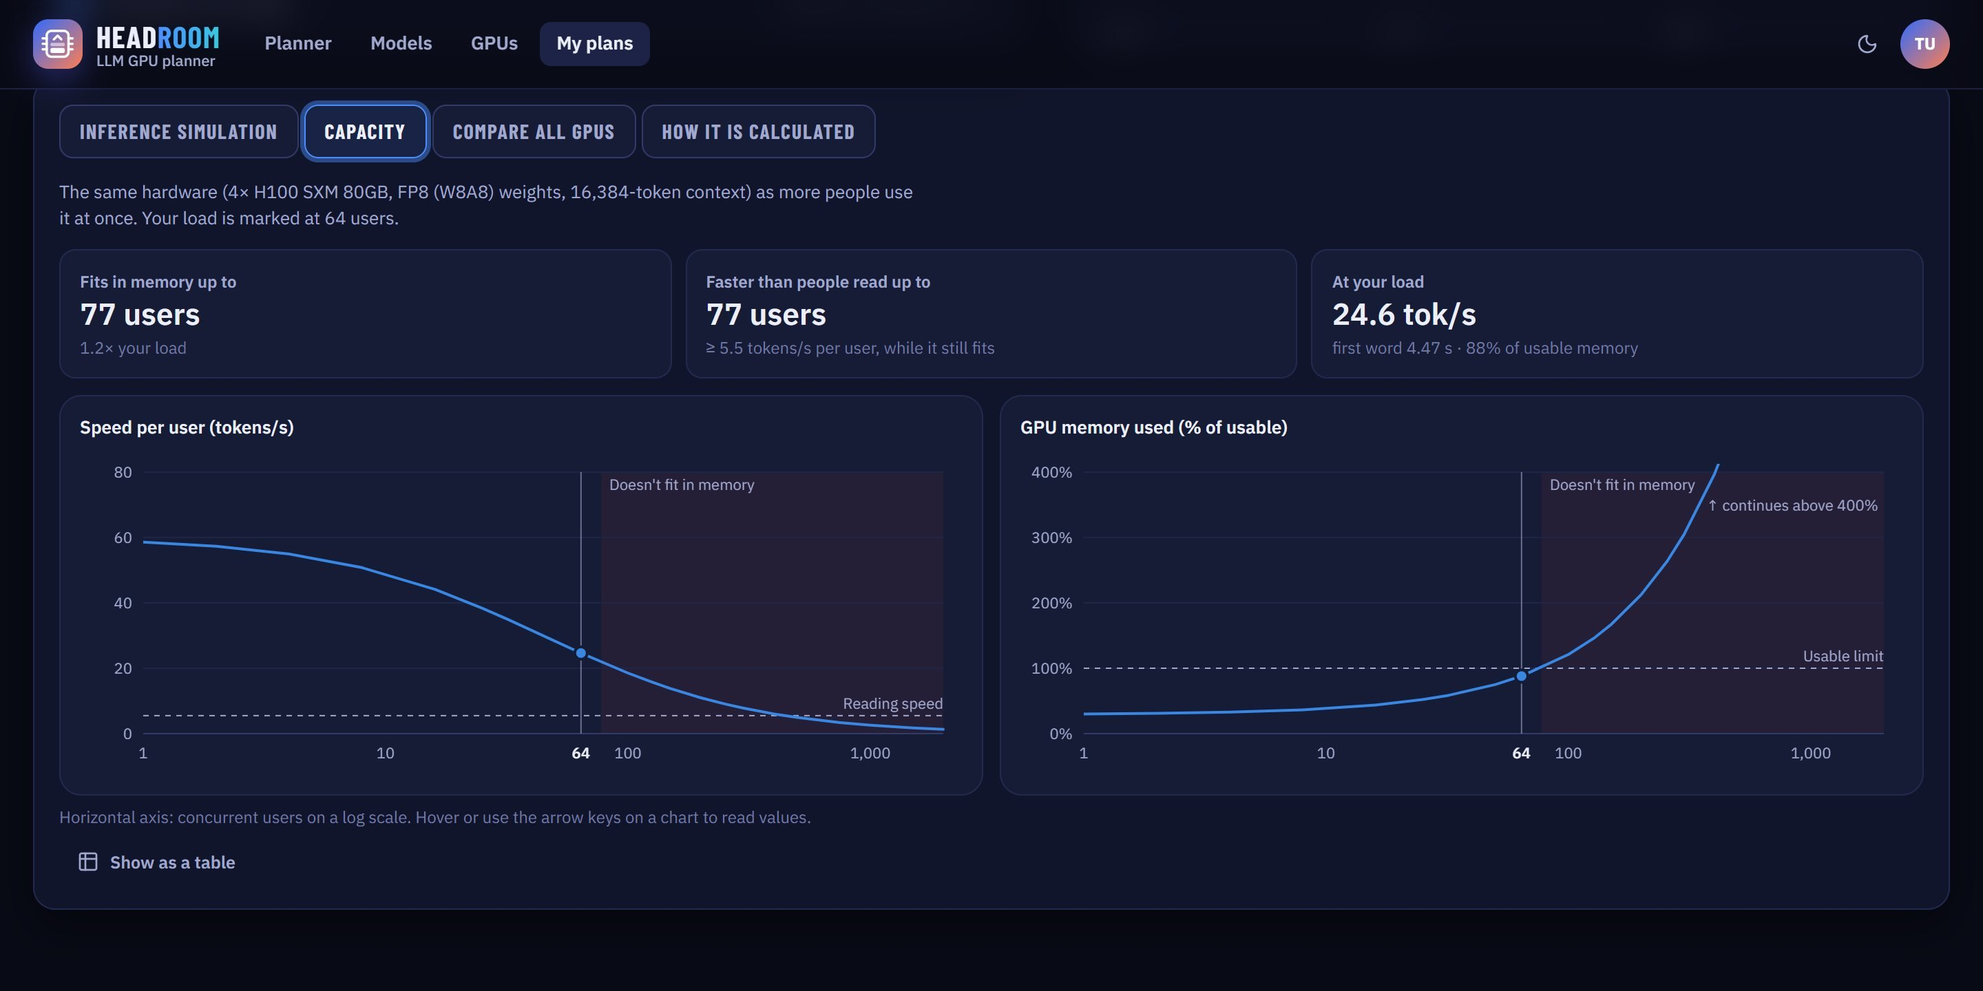
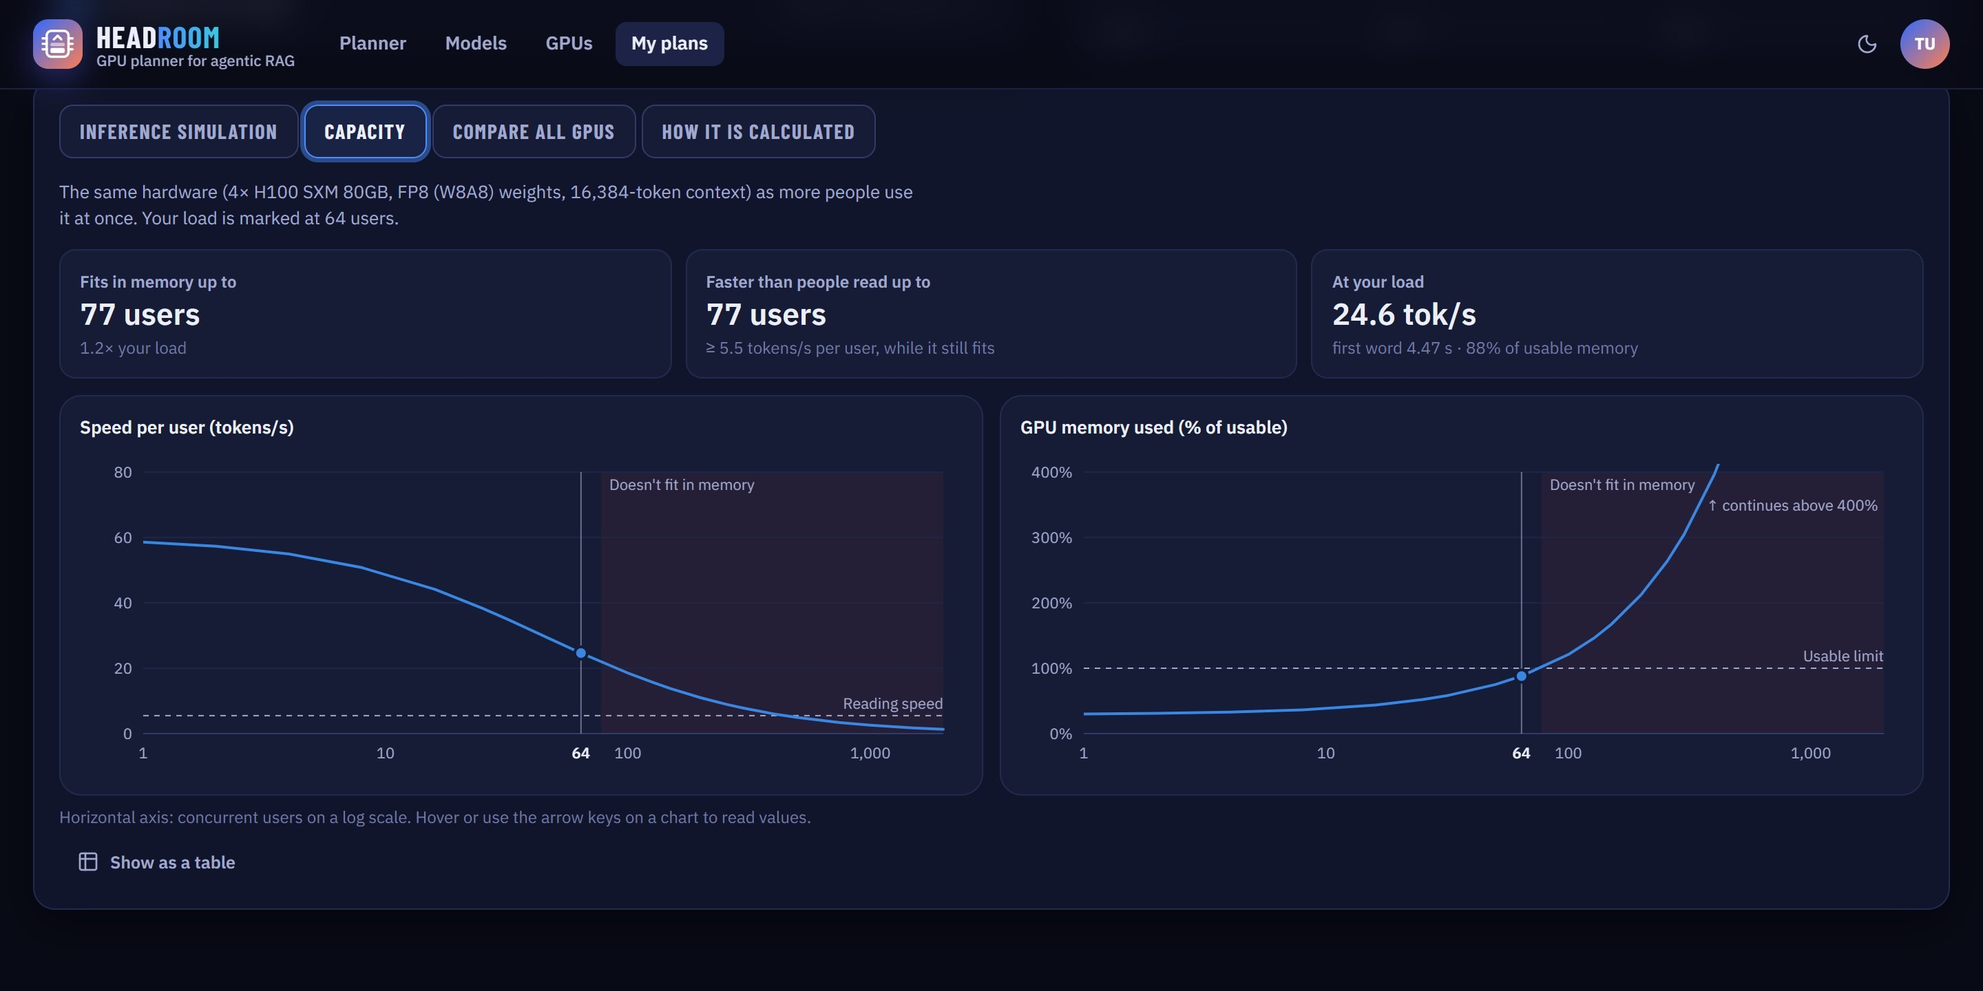
App: pitch Headroom as a GPU planner for agentic RAG
- Tagline "GPU planner for agentic RAG" and a site description that
  names the whole stack (embedders, rerankers, parsers, speech,
  guardrails) next to the LLM
- Landing: new hero copy, a "One GPU budget for every model" section
  computed from the Voice agent template, the hero card lists the RAG
  models and shows question -> first word, stack-first features,
  how-it-works steps and a new FAQ answer
- Sign-in panel, planner, share, GPU catalog and share image copy
- Refreshed README screenshots and demo GIF with the new tagline

Changed region(s): [[0.125, 0.0, 0.375, 0.0938], [0.0625, 0.0312, 0.0938, 0.0938]]

diff --git a/src/app/(marketing)/page.tsx b/src/app/(marketing)/page.tsx
@@ -17,19 +17,21 @@ import {
 import { buttonVariants } from "@/components/ui/button";
 import { HeroPreview } from "@/components/marketing/hero-preview";
 import { TemplateGallery } from "@/components/dashboard/template-gallery";
+import { StatusPill } from "@/components/ui/status";
 import { CATALOG_STATS, GPU_INDEX } from "@/lib/catalog";
-import { ENGINES, WQ } from "@/lib/engine";
+import { ENGINES, TASKS, WQ } from "@/lib/engine";
 import { runInference } from "@/lib/planner/compute";
 import { defaultState } from "@/lib/planner/defaults";
-import { gpuLabel, money, spd, tm } from "@/lib/planner/format";
+import { gb, gpuLabel, money, ms, nf, pc, spd, tm } from "@/lib/planner/format";
+import { templateState } from "@/lib/planner/templates";
 import { siteConfig } from "@/lib/site";
 
 const FEATURES = [
-  { icon: Layers, title: "Memory, line by line", text: "Weights, KV cache per user, runtime, CUDA graphs, activations and companion models, against what each GPU can really hold." },
-  { icon: Gauge, title: "Speed and first word", text: "Tokens per second per user from memory bandwidth, compute and GPU-to-GPU traffic, and time to first token under a burst of prompts." },
+  { icon: Boxes, title: "The whole RAG & agent stack", text: `The LLM plus ${CATALOG_STATS.companions} embedding, reranking, OCR, speech-to-text, text-to-speech and guardrail models, on the same GPUs, on the CPU or as an API.` },
+  { icon: Layers, title: "Memory, line by line", text: "Weights, KV cache per user, runtime, CUDA graphs, activations and every model in the stack, against what each GPU can really hold." },
+  { icon: Gauge, title: "Speed and first word", text: "Tokens per second per user, and the time from question to first word: embedding, vector search, reranking, guardrails and the LLM's first token, under a burst." },
   { icon: Server, title: "How many GPUs", text: "The smallest server that fits, or a cluster with tensor and pipeline parallelism over NVLink, InfiniBand or Ethernet." },
   { icon: ChartColumn, title: "Every GPU, side by side", text: `The same workload on all ${CATALOG_STATS.gpus} GPUs: count needed, speed, first word, cost per hour and per million tokens.` },
-  { icon: Boxes, title: "RAG and agent stacks", text: `${CATALOG_STATS.companions} embedding, reranking, OCR, speech and guardrail models sharing the GPUs, with retrieval latency per question.` },
   { icon: FlaskConical, title: "Fine-tuning", text: "Full, LoRA and QLoRA with optimizer states, ZeRO / FSDP sharding, checkpointing, training time and cost." },
   { icon: HardDrive, title: "Offloading", text: "Move layers or the KV cache to RAM or NVMe, run them on the CPU or stream over PCIe, and see what it costs in speed." },
   { icon: Coins, title: "Cost and energy", text: "Cloud price or your own, electricity, power draw, cost per million tokens, and the CPU and RAM the server needs." },
@@ -47,6 +49,10 @@ const FAQ = [
   {
     q: "Does it handle MoE, MLA, sliding windows and hybrid models?",
     a: "Yes. Mixture-of-experts counts the experts each step actually touches, MLA models store their latent KV, sliding-window layers keep only their window, linear-attention and Mamba layers keep a fixed state, and quantized KV caches are supported per runtime.",
+  },
+  {
+    q: "Which models besides the LLM can it size?",
+    a: `${CATALOG_STATS.companions} RAG and agent models in 9 types: embedders, rerankers, document parsers and OCR, speech-to-text, text-to-speech, guardrails, vision, PII detection and routers. Each one gets its memory and its speed (query time, pages per hour, × real time for live audio), on the GPU next to the LLM, on the CPU, or as a hosted API with its price.`,
   },
   {
     q: "Do I need an account?",
@@ -71,6 +77,85 @@ function seventyB() {
     });
 }
 
+/** The "Voice agent" template, computed by the same engine as the planner. */
+function voiceAgent() {
+  const s = templateState("voice-agent");
+  return s ? runInference(s) : null;
+}
+
+const PIPELINE = ["Speech-to-text", "Guardrail", "Embedder", "Vector search", "Reranker", "LLM", "Text-to-speech"];
+
+function StackSection() {
+  const r = voiceAgent();
+  if (!r) return null;
+  const st = r.st;
+  const parts: string[] = [];
+  if (st.emb) parts.push(`embed ${ms(st.emb)}`);
+  if (st.search) parts.push(`search ${ms(st.search)}`);
+  if (st.rr) parts.push(`rerank ${ms(st.rr)}`);
+  if (st.guard) parts.push(`guard ${ms(st.guard)}`);
+  return (
+    <section className="mx-auto max-w-[1240px] px-4 pb-20 sm:px-6">
+      <div className="grid gap-10 lg:grid-cols-[minmax(0,0.9fr)_minmax(0,1.1fr)] lg:items-center">
+        <div>
+          <p className="font-display text-sm font-bold tracking-[0.16em] text-orange uppercase">The whole stack</p>
+          <h2 className="mt-2 font-display text-[36px] leading-none font-bold uppercase sm:text-[44px]">One GPU budget for every model</h2>
+          <p className="mt-4 max-w-[52ch] text-[15px] leading-relaxed text-muted">
+            An assistant is never just an LLM. It transcribes, checks, embeds, searches, reranks, answers and speaks, and every one of those models takes memory and
+            compute from the same GPUs. Headroom sizes them together.
+          </p>
+          <ol className="mt-6 flex flex-wrap items-center gap-1.5 text-[12.5px] font-semibold">
+            {PIPELINE.map((step, i) => (
+              <li key={step} className="flex items-center gap-1.5">
+                <span className={i === 5 ? "primary-gradient rounded-full px-3 py-1 text-white" : "rounded-full border border-line-2 bg-panel px-3 py-1"}>{step}</span>
+                {i < PIPELINE.length - 1 ? <ArrowRight className="size-3.5 text-faint" aria-hidden /> : null}
+              </li>
+            ))}
+          </ol>
+          <p className="mt-3 text-[13px] text-faint">Behind it: document parsing, OCR and indexing for your knowledge base.</p>
+        </div>
+        <div className="rounded-2xl border border-line bg-panel p-5 shadow-card">
+          <div className="flex items-start justify-between gap-3">
+            <div className="min-w-0">
+              <h3 className="text-[15px] font-semibold">Example: a voice agent for {nf(r.users, 0)} users</h3>
+              <p className="mt-0.5 text-[13px] text-muted">
+                {r.model.name} with {st.rows.map((x) => x.c.name).join(", ")} on {r.T.G}× {gpuLabel(r.gpu)}
+              </p>
+            </div>
+            <StatusPill ratio={r.ratio} size="sm" />
+          </div>
+          <p className="mt-3 text-[13px] text-muted">
+            <b className="text-[22px] font-semibold text-fg">{nf(r.ratio * 100, 0)}%</b> of usable VRAM: {nf(r.used, 1)} of {nf(r.usableRep, 1)} GB, of which{" "}
+            <b className="text-fg">{gb(st.gpuMem)}</b> for the RAG and voice models
+          </p>
+          <ul className="mt-4 grid gap-2">
+            {st.rows.map((x) => (
+              <li key={x.c.id} className="rounded-xl border border-line bg-panel-2 px-3.5 py-2.5">
+                <div className="flex items-center gap-2 text-[13px]">
+                  <span className="rounded-full bg-blue/14 px-2 py-0.5 text-[10px] font-bold tracking-[0.06em] whitespace-nowrap text-blue uppercase">
+                    {(TASKS[x.c.task] || { l: x.c.task }).l}
+                  </span>
+                  <b className="min-w-0 flex-1 truncate">{x.c.name}</b>
+                  <span className="font-mono tabular-nums">{gb(x.gpuMem)}</span>
+                </div>
+                <p className="mt-1 text-xs text-muted">{x.metrics.join(" · ")}</p>
+              </li>
+            ))}
+          </ul>
+          <p className="mt-3 font-mono text-xs leading-relaxed text-muted">
+            Question → first word: {[...parts, `LLM ${tm(r.ttft1)}`].join(" + ")} = <b className="text-fg">{tm(r.ttft1 + st.retrieval)}</b>
+            <br />
+            {spd(r.speed)} tok/s per user · {money(r.perMTok)} per 1M tokens · the stack uses {pc(st.load, st.load < 0.1 ? 1 : 0)} of the GPUs&apos; compute
+          </p>
+          <Link href="/planner?template=voice-agent" className="mt-4 inline-flex items-center gap-1 text-[13px] font-semibold text-blue">
+            Open this in the planner <ArrowRight className="size-4" />
+          </Link>
+        </div>
+      </div>
+    </section>
+  );
+}
+
 export default function LandingPage() {
   const rows = seventyB();
   return (
@@ -81,14 +166,14 @@ export default function LandingPage() {
         <div className="relative mx-auto grid max-w-[1240px] items-center gap-12 px-4 pt-14 pb-16 sm:px-6 lg:grid-cols-[minmax(0,1.05fr)_minmax(0,1fr)] lg:pt-20 lg:pb-24">
           <div>
             <p className="inline-flex items-center gap-2 rounded-full border border-line-2 bg-panel/70 px-3 py-1 text-xs font-semibold text-muted">
-              <span className="size-1.5 rounded-full bg-orange" /> For ML platform and infrastructure teams
+              <span className="size-1.5 rounded-full bg-orange" /> For teams shipping RAG, voice and agent apps
             </p>
             <h1 className="mt-5 font-display text-[44px] leading-[0.95] font-bold tracking-[0.005em] uppercase sm:text-[60px] lg:text-[68px]">
               Know your GPU <span className="text-gradient">headroom</span> before you buy.
             </h1>
             <p className="mt-5 max-w-[56ch] text-[16px] leading-relaxed text-muted">
-              GPU memory, tokens per second, time to first token, how many GPUs and the cost per million tokens, for inference and fine-tuning. {CATALOG_STATS.models} open
-              models, {CATALOG_STATS.gpus} GPUs, real architecture math.
+              Size the GPUs for your whole agentic RAG stack, not just the LLM: embedders, rerankers, document parsers, speech-to-text, text-to-speech and guardrails
+              share the same cards. Memory, tokens per second, question-to-first-word time, GPU count and cost per million tokens, from real architecture math.
             </p>
             <div className="mt-8 flex flex-wrap gap-3">
               <Link href="/planner" className={buttonVariants({ variant: "primary", size: "lg" })}>
@@ -108,9 +193,9 @@ export default function LandingPage() {
       <section className="border-y border-line bg-panel/60">
         <dl className="mx-auto grid max-w-[1240px] grid-cols-2 gap-y-6 px-4 py-8 sm:grid-cols-5 sm:px-6">
           {[
-            [CATALOG_STATS.models, "open models"],
-            [CATALOG_STATS.gpus, "GPUs & accelerators"],
+            [CATALOG_STATS.models, "LLMs"],
             [CATALOG_STATS.companions, "RAG & agent models"],
+            [CATALOG_STATS.gpus, "GPUs & accelerators"],
             [Object.keys(WQ).length, "weight formats"],
             [Object.keys(ENGINES).length, "inference runtimes"],
           ].map(([n, label]) => (
@@ -139,6 +224,8 @@ export default function LandingPage() {
         </div>
       </section>
 
+      <StackSection />
+
       {/* how it works + example */}
       <section className="border-y border-line bg-panel/50">
         <div className="mx-auto grid max-w-[1240px] gap-12 px-4 py-20 sm:px-6 lg:grid-cols-[minmax(0,0.9fr)_minmax(0,1.1fr)]">
@@ -147,9 +234,9 @@ export default function LandingPage() {
             <h2 className="mt-2 font-display text-[36px] leading-none font-bold uppercase sm:text-[44px]">Three choices, one answer</h2>
             <ol className="mt-8 grid gap-6">
               {[
-                ["Pick the model", "Any of the catalog's models, or your own architecture: layers, heads, experts, sliding windows."],
-                ["Pick the hardware", "A GPU, a server or a cluster. Auto mode finds the smallest GPU count that fits."],
-                ["Describe the load", "Concurrent users, context length, answer length, RAG models. Every number updates as you type."],
+                ["Pick the models", "An LLM from the catalog or your own architecture, plus the embedders, rerankers, parsers, speech and guardrail models around it."],
+                ["Pick the hardware", "A GPU, a server or a cluster. Auto mode finds the smallest GPU count that fits the whole stack."],
+                ["Describe the load", "Concurrent users, context length, questions per minute, live audio streams, pages to parse. Every number updates as you type."],
               ].map(([t, d], i) => (
                 <li key={t} className="flex gap-4">
                   <span className="primary-gradient grid size-9 flex-none place-items-center rounded-xl font-semibold text-white">{i + 1}</span>

diff --git a/src/components/marketing/hero-preview.tsx b/src/components/marketing/hero-preview.tsx
@@ -1,5 +1,6 @@
 import { memoryStatus } from "@/components/ui/misc";
 import { StatusPill } from "@/components/ui/status";
+import { TASKS } from "@/lib/engine";
 import { runInference } from "@/lib/planner/compute";
 import { defaultState } from "@/lib/planner/defaults";
 import { gb, gpuLabel, money, nf, spd, tm } from "@/lib/planner/format";
@@ -18,9 +19,12 @@ export function HeroPreview() {
     { name: "RAG & agent models", value: r.st.gpuMem },
   ].filter((p) => p.value > 0.005);
   const cap = Math.max(r.totalRep, r.used);
+  const stackRows = r.st.rows;
   const tiles: [string, string, string][] = [
     ["Speed per user", `${spd(r.speed)} tok/s`, `${nf(1000 / r.speed, 0)} ms per token`],
-    ["First word", tm(r.ttftK), `${r.k} prompts at once`],
+    r.st.retrieval
+      ? ["Question → first word", tm(r.ttftK + r.st.retrieval), `retrieval included · ${r.k} at once`]
+      : ["First word", tm(r.ttftK), `${r.k} prompts at once`],
     ["Total output", `${nf(r.thr, 0)} tok/s`, `${nf(r.seqs, 0)} answers at once`],
     ["Per 1M output tokens", money(r.perMTok), `${money(r.costHr)} per hour`],
   ];
@@ -30,7 +34,9 @@ export function HeroPreview() {
       <div className="rounded-3xl border border-line-2 bg-panel/90 p-5 shadow-pop backdrop-blur sm:p-6">
         <div className="flex items-center justify-between gap-3 border-b border-line pb-3.5">
           <div className="min-w-0">
-            <p className="truncate text-[13px] font-semibold">{r.model.name} · INT8</p>
+            <p className="truncate text-[13px] font-semibold">
+              {r.model.name} · INT8{stackRows.length ? ` + ${stackRows.length} RAG models` : ""}
+            </p>
             <p className="truncate text-xs text-muted">
               {nf(r.users, 0)} users · {nf(r.S, 0)}-token context · {r.T.G}× {gpuLabel(r.gpu)}
             </p>
@@ -78,6 +84,22 @@ export function HeroPreview() {
             </li>
           ))}
         </ul>
+        {stackRows.length ? (
+          <>
+            <p className="mt-4 mb-2 font-display text-[12px] font-bold tracking-[0.14em] text-muted uppercase">Same GPUs, whole stack</p>
+            <ul className="grid gap-1.5 text-xs">
+              {stackRows.map((x) => (
+                <li key={x.c.id} className="flex items-center gap-2">
+                  <span className="rounded-full bg-blue/14 px-2 py-0.5 text-[10px] font-bold tracking-[0.06em] whitespace-nowrap text-blue uppercase">
+                    {(TASKS[x.c.task] || { l: x.c.task }).l}
+                  </span>
+                  <span className="min-w-0 flex-1 truncate">{x.c.name}</span>
+                  <b className="font-semibold tabular-nums">{gb(x.gpuMem)}</b>
+                </li>
+              ))}
+            </ul>
+          </>
+        ) : null}
       </div>
     </div>
   );

diff --git a/src/app/(auth)/layout.tsx b/src/app/(auth)/layout.tsx
@@ -4,7 +4,7 @@ import { ThemeToggle } from "@/components/theme";
 import { CATALOG_STATS } from "@/lib/catalog";
 
 const POINTS = [
-  { icon: Gauge, title: "Memory, speed and first word", text: "Weights, KV cache and runtime per GPU, tokens per second and time to first token." },
+  { icon: Gauge, title: "The whole stack, not just the LLM", text: "LLM, embedders, rerankers, OCR, speech and guardrails: memory, speed and question-to-first-word time." },
   { icon: Cpu, title: "The right number of GPUs", text: `Smallest count that fits across ${CATALOG_STATS.gpus} GPUs, clusters with TP × PP, offloading.` },
   { icon: Share2, title: "Saved, shared, compared", text: "Autosaved plans, read-only links for your team, setup codes." },
 ];
@@ -27,7 +27,7 @@ export default function AuthLayout({ children }: LayoutProps<"/">) {
         <div className="absolute -top-32 -right-24 size-[520px] rounded-full bg-[radial-gradient(closest-side,rgba(47,107,255,.28),transparent)]" />
         <div className="absolute -bottom-40 -left-24 size-[520px] rounded-full bg-[radial-gradient(closest-side,rgba(255,126,81,.22),transparent)]" />
         <div className="relative flex h-full flex-col justify-center px-14 py-16 xl:px-20">
-          <p className="font-display text-sm font-bold tracking-[0.16em] text-orange uppercase">LLM infrastructure planning</p>
+          <p className="font-display text-sm font-bold tracking-[0.16em] text-orange uppercase">GPU planning for RAG &amp; agents</p>
           <h2 className="mt-3 max-w-[16ch] font-display text-5xl leading-[0.95] font-bold tracking-[0.01em] uppercase">Size it before you buy it.</h2>
           <ul className="mt-10 grid max-w-md gap-6">
             {POINTS.map(({ icon: Icon, title, text }) => (
@@ -43,7 +43,7 @@ export default function AuthLayout({ children }: LayoutProps<"/">) {
             ))}
           </ul>
           <p className="mt-12 font-mono text-xs text-faint">
-            {CATALOG_STATS.models} models · {CATALOG_STATS.gpus} GPUs · {CATALOG_STATS.companions} RAG &amp; agent models
+            {CATALOG_STATS.models} LLMs · {CATALOG_STATS.companions} RAG &amp; agent models · {CATALOG_STATS.gpus} GPUs
           </p>
         </div>
       </aside>

diff --git a/src/app/opengraph-image.tsx b/src/app/opengraph-image.tsx
@@ -2,7 +2,7 @@ import { ImageResponse } from "next/og";
 import { CATALOG_STATS } from "@/lib/catalog";
 import { siteConfig } from "@/lib/site";
 
-export const alt = `${siteConfig.name}: LLM GPU planner`;
+export const alt = `${siteConfig.name}: ${siteConfig.tagline}`;
 export const size = { width: 1200, height: 630 };
 export const contentType = "image/png";
 
@@ -51,12 +51,12 @@ export default function OpenGraphImage() {
         </div>
         <div style={{ display: "flex", flexDirection: "column", gap: 20 }}>
           <div style={{ fontSize: 76, fontWeight: 700, lineHeight: 1.02, maxWidth: 1000 }}>Know your GPU headroom before you buy.</div>
-          <div style={{ fontSize: 30, color: "#a0a8ce", maxWidth: 1000 }}>GPU memory, tokens per second, first word, GPU count and cost per million tokens.</div>
+          <div style={{ fontSize: 30, color: "#a0a8ce", maxWidth: 1000 }}>The LLM plus its embedders, rerankers, OCR, speech and guardrail models: memory, speed and cost on one GPU budget.</div>
         </div>
         <div style={{ display: "flex", gap: 40, fontSize: 28, color: "#a0a8ce" }}>
-          <span>{CATALOG_STATS.models} models</span>
-          <span>{CATALOG_STATS.gpus} GPUs</span>
+          <span>{CATALOG_STATS.models} LLMs</span>
           <span>{CATALOG_STATS.companions} RAG &amp; agent models</span>
+          <span>{CATALOG_STATS.gpus} GPUs</span>
         </div>
       </div>
     ),

diff --git a/src/lib/site.ts b/src/lib/site.ts
@@ -2,10 +2,11 @@ const productionHost = process.env.VERCEL_PROJECT_PRODUCTION_URL;
 
 export const siteConfig = {
   name: "Headroom",
-  tagline: "LLM GPU planner",
+  tagline: "GPU planner for agentic RAG",
   description:
-    "Plan GPU memory, tokens per second, time to first token, GPU count and cost for LLM inference and fine-tuning, " +
-    "across 138 open models, 93 GPUs and 175 RAG & agent models.",
+    "Size the GPUs for your whole agentic RAG stack, not just the LLM: embedders, rerankers, document parsers, " +
+    "speech-to-text, text-to-speech and guardrails on the same cards. Memory, tokens per second, question-to-first-word time, " +
+    "GPU count and cost across 138 LLMs, 175 RAG & agent models and 93 GPUs.",
   url:
     process.env.NEXT_PUBLIC_SITE_URL ||
     process.env.BETTER_AUTH_URL ||

diff --git a/src/app/(app)/planner/page.tsx b/src/app/(app)/planner/page.tsx
@@ -5,7 +5,7 @@ import { WorkspaceSkeleton } from "@/components/planner/workspace-skeleton";
 
 export const metadata: Metadata = {
   title: "Planner",
-  description: "Size GPU memory, speed, GPU count and cost for an LLM deployment or fine-tuning run. No account needed.",
+  description: "Size GPU memory, speed, GPU count and cost for an LLM and its RAG and agent stack (embedders, rerankers, OCR, speech, guardrails), or a fine-tuning run. No account needed.",
 };
 
 export default function PlannerPage() {

diff --git a/src/app/(app)/gpus/page.tsx b/src/app/(app)/gpus/page.tsx
@@ -4,7 +4,7 @@ import { CATALOG_STATS } from "@/lib/catalog";
 import { gpuRows } from "@/lib/catalog-insights";
 
 export const metadata: Metadata = {
-  title: "GPU catalog for LLMs",
+  title: "GPU catalog for LLMs and RAG stacks",
   description: `Memory, bandwidth, TFLOPS, power and cloud price for ${CATALOG_STATS.gpus} GPUs and accelerators, from H100 and B200 to RTX 5090 and Apple M4.`,
 };
 

diff --git a/src/app/(app)/share/[shareId]/page.tsx b/src/app/(app)/share/[shareId]/page.tsx
@@ -10,7 +10,7 @@ import { sanitizeState } from "@/lib/planner/state";
 
 export const metadata: Metadata = {
   title: "Shared plan",
-  description: "A read-only LLM infrastructure plan: GPU memory, speed, GPU count and cost.",
+  description: "A read-only GPU plan for an LLM and its RAG and agent stack: memory, speed, GPU count and cost.",
   robots: { index: false },
 };
 
